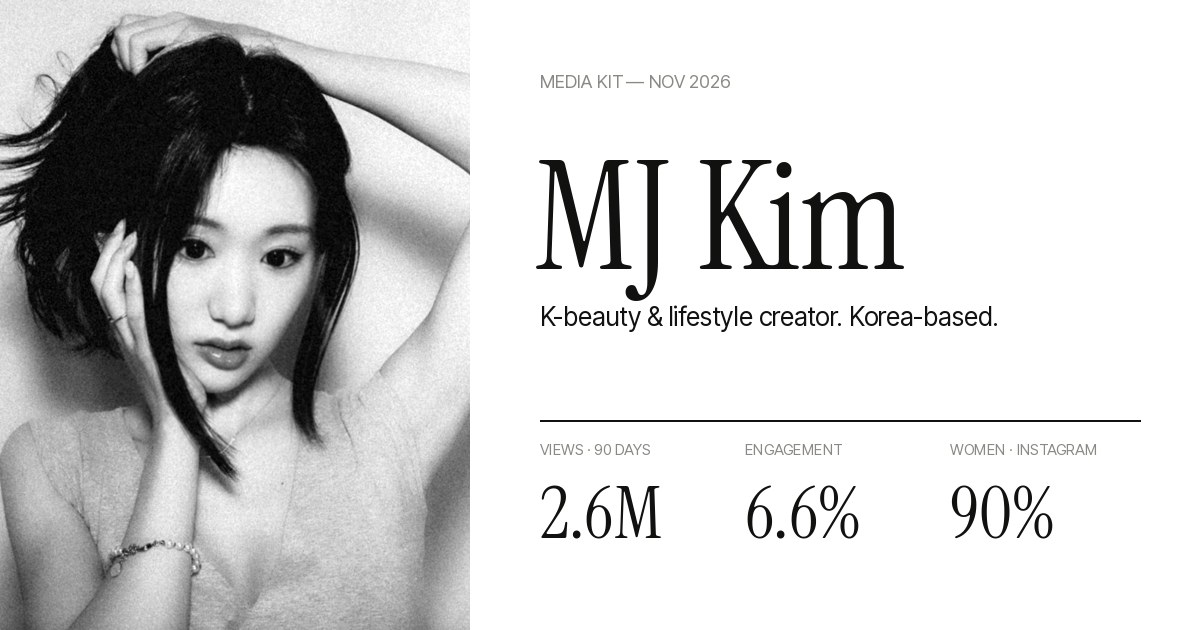
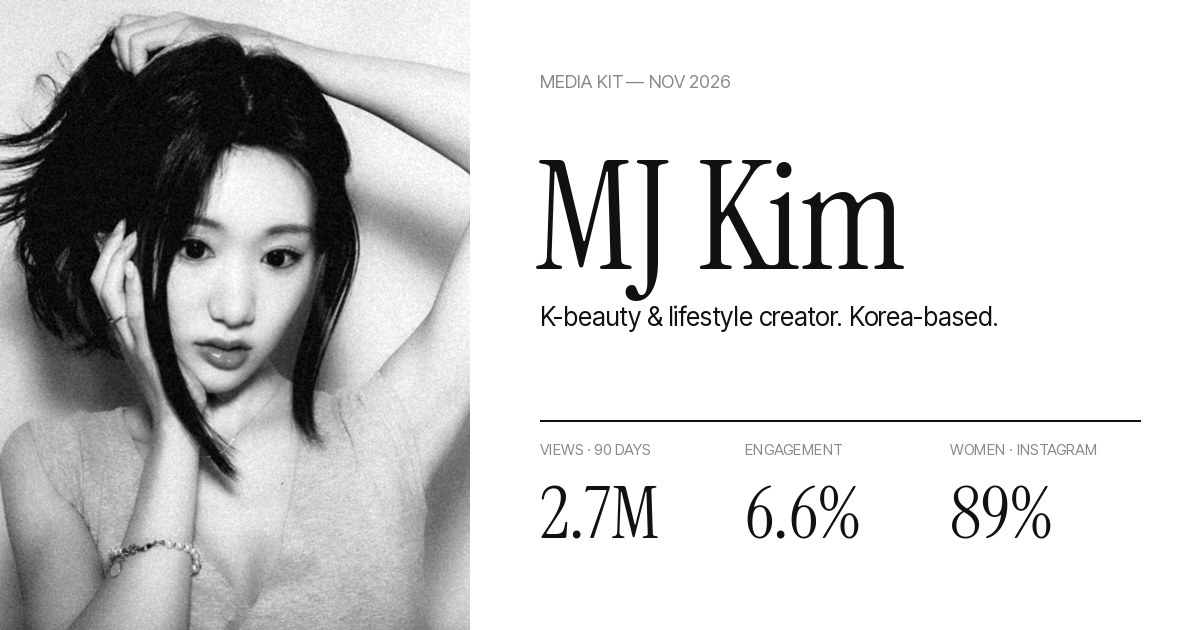
stats 2026-11-25: 55.7K followers, 2.7M views/90d, 6.6% engagement

Changed region(s): [[0.7708, 0.754, 0.8942, 0.8746], [0.4625, 0.754, 0.555, 0.8746]]

diff --git a/index.html b/index.html
@@ -4,7 +4,7 @@
 <meta charset="utf-8">
 <meta name="viewport" content="width=device-width, initial-scale=1, viewport-fit=cover">
 <title>MJ Kim (@likemjkim) · K-beauty Creator in Korea | Media Kit</title>
-<meta name="description" data-k="desc" content="MJ Kim (@likemjkim) is a Korea-based K-beauty &amp; lifestyle creator making English videos on TikTok, YouTube &amp; Instagram. 2.6M TikTok views in 90 days.">
+<meta name="description" data-k="desc" content="MJ Kim (@likemjkim) is a Korea-based K-beauty &amp; lifestyle creator making English videos on TikTok, YouTube &amp; Instagram. 2.7M TikTok views in 90 days.">
 <link rel="canonical" href="https://likemjkim.com/">
 <meta property="og:type" content="website">
 <meta property="og:site_name" content="MJ Kim">
@@ -394,7 +394,7 @@ footer p { margin: 0; font-size: 12px; line-height: 1.6; color: var(--grey); max
       </div>
       <div>
         <div class="strip">
-          <div><span class="lab"><span class="en">Followers</span><span class="ko" lang="ko">팔로워</span></span><span class="num"><span class="en" data-k="followers_total">55.5K</span><span class="ko" data-k="followers_total.ko">5.55만</span></span></div>
+          <div><span class="lab"><span class="en">Followers</span><span class="ko" lang="ko">팔로워</span></span><span class="num"><span class="en" data-k="followers_total">55.7K</span><span class="ko" data-k="followers_total.ko">5.57만</span></span></div>
           <div><span class="lab"><span class="en">Views · 90 days</span><span class="ko" lang="ko">90일 조회수</span></span><span class="num"><span class="en">6.6M</span><span class="ko">660만</span></span></div>
           <div><span class="lab"><span class="en">Engagement</span><span class="ko" lang="ko">참여율</span></span><span class="num">7.8%</span></div>
           <div><span class="lab"><span class="en">Women · IG</span><span class="ko" lang="ko">여성 · 인스타</span></span><span class="num">89%</span></div>
@@ -431,14 +431,14 @@ footer p { margin: 0; font-size: 12px; line-height: 1.6; color: var(--grey); max
       <p><span class="en">TikTok + Instagram views in the last 90 days.</span><span class="ko" lang="ko">최근 90일 틱톡 + 인스타그램 조회수.</span></p>
     </div>
     <div class="figs rv">
-      <div><div class="num"><span class="en" data-k="typical">16.6K</span><span class="ko" data-k="typical.ko">1.66만</span></div><p><span class="en">typical views per video, all platforms</span><span class="ko" lang="ko">영상 1개당 일반 조회수, 전 플랫폼 합산</span></p></div>
+      <div><div class="num"><span class="en" data-k="typical">17.1K</span><span class="ko" data-k="typical.ko">1.71만</span></div><p><span class="en">typical views per video, all platforms</span><span class="ko" lang="ko">영상 1개당 일반 조회수, 전 플랫폼 합산</span></p></div>
       <div><div class="num">7.8%</div><p><span class="en">overall engagement, TikTok + Instagram</span><span class="ko" lang="ko">틱톡 + 인스타그램 전체 참여율</span></p></div>
       <div><div class="num" data-k="over50k">12</div><p><span class="en">videos past 50K views in 90 days</span><span class="ko" lang="ko">90일 동안 5만 뷰를 넘긴 영상</span></p></div>
     </div>
     <div class="pairs rv">
-      <div><span class="lab">YouTube</span><span class="num"><span class="en" data-k="yt_subs">32K</span><span class="ko" data-k="yt_subs.ko">3.2만</span></span></div>
+      <div><span class="lab">YouTube</span><span class="num"><span class="en" data-k="yt_subs">32.1K</span><span class="ko" data-k="yt_subs.ko">3.21만</span></span></div>
       <div><span class="lab">TikTok</span><span class="num"><span class="en" data-k="tt_followers">17.3K</span><span class="ko" data-k="tt_followers.ko">1.73만</span></span></div>
-      <div><span class="lab">Instagram</span><span class="num"><span class="en" data-k="ig_followers">6.2K</span><span class="ko" data-k="ig_followers.ko">6,200</span></span></div>
+      <div><span class="lab">Instagram</span><span class="num"><span class="en" data-k="ig_followers">6.3K</span><span class="ko" data-k="ig_followers.ko">6,300</span></span></div>
       <div><span class="lab"><span class="en">Women · Instagram</span><span class="ko" lang="ko">여성 · 인스타그램</span></span><span class="num">89%</span></div>
       <div><span class="lab"><span class="en">Women · YouTube</span><span class="ko" lang="ko">여성 · 유튜브</span></span><span class="num">77.3%</span></div>
       <div><span class="lab"><span class="en">18–34 · TikTok</span><span class="ko" lang="ko">18–34세 · 틱톡</span></span><span class="num">77.2%</span></div>
@@ -453,7 +453,7 @@ footer p { margin: 0; font-size: 12px; line-height: 1.6; color: var(--grey); max
     <div class="brand-row">
       <a class="reel-tile rv" href="https://www.tiktok.com/@likemjkim/video/7697993481683258655" target="_blank" rel="noopener"><div class="frame"><img src="reels/b-epii-barrier.jpg" alt="epii skin-barrier TikTok" width="432" height="768" loading="lazy"><video muted playsinline loop preload="none" data-src="reels/b-epii-barrier.mp4" aria-hidden="true"></video></div><div class="cap"><span class="lab">epii</span><span class="num"><span class="en" data-k="tt:7697993481683258655:views">243K views</span><span class="ko" data-k="tt:7697993481683258655:views.ko">조회수 24.3만</span></span></div></a>
       <a class="reel-tile rv" href="https://www.tiktok.com/@likemjkim/video/7690425915339230495" target="_blank" rel="noopener"><div class="frame"><img src="reels/b-linave.jpg" alt="LIN AVENUE baseball cap TikTok" width="432" height="768" loading="lazy"><video muted playsinline loop preload="none" data-src="reels/b-linave.mp4" aria-hidden="true"></video></div><div class="cap"><span class="lab">LIN AVENUE</span><span class="num"><span class="en" data-k="tt:7690425915339230495:saves">1.3K saves</span><span class="ko" data-k="tt:7690425915339230495:saves.ko">저장 1,300회</span></span></div></a>
-      <a class="reel-tile rv" href="https://www.tiktok.com/@likemjkim/video/7700989188619095326" target="_blank" rel="noopener"><div class="frame"><img src="reels/b-epii-hpt6.jpg" alt="epii anti-aging TikTok" width="432" height="768" loading="lazy"><video muted playsinline loop preload="none" data-src="reels/b-epii-hpt6.mp4" aria-hidden="true"></video></div><div class="cap"><span class="lab">epii</span><span class="num"><span class="en" data-k="tt:7700989188619095326:views">75.2K views</span><span class="ko" data-k="tt:7700989188619095326:views.ko">조회수 7.52만</span></span></div></a>
+      <a class="reel-tile rv" href="https://www.tiktok.com/@likemjkim/video/7700989188619095326" target="_blank" rel="noopener"><div class="frame"><img src="reels/b-epii-hpt6.jpg" alt="epii anti-aging TikTok" width="432" height="768" loading="lazy"><video muted playsinline loop preload="none" data-src="reels/b-epii-hpt6.mp4" aria-hidden="true"></video></div><div class="cap"><span class="lab">epii</span><span class="num"><span class="en" data-k="tt:7700989188619095326:views">75.3K views</span><span class="ko" data-k="tt:7700989188619095326:views.ko">조회수 7.53만</span></span></div></a>
       <a class="reel-tile rv" href="https://www.tiktok.com/@likemjkim/video/7694258473701313822" target="_blank" rel="noopener"><div class="frame"><img src="reels/b-dasique.jpg" alt="dasique blush TikTok" width="432" height="768" loading="lazy"><video muted playsinline loop preload="none" data-src="reels/b-dasique.mp4" aria-hidden="true"></video></div><div class="cap"><span class="lab">dasique</span><span class="num"><span class="en">Blush</span><span class="ko">블러셔</span></span></div></a>
       <a class="reel-tile rv" href="https://www.tiktok.com/@likemjkim/video/7687236497573055775" target="_blank" rel="noopener"><div class="frame"><img src="reels/b-anaze.jpg" alt="ANAZE hair TikTok" width="432" height="768" loading="lazy"><video muted playsinline loop preload="none" data-src="reels/b-anaze.mp4" aria-hidden="true"></video></div><div class="cap"><span class="lab">ANAZE</span><span class="num"><span class="en">Hair care</span><span class="ko">헤어 케어</span></span></div></a>
       <a class="reel-tile rv" href="https://www.instagram.com/reel/Df4r59CJyJf/" target="_blank" rel="noopener"><div class="frame"><img src="reels/o-unni.jpg" alt="UNNI Seoul beauty under $100 Reel" width="432" height="768" loading="lazy"><video muted playsinline loop preload="none" data-src="reels/o-unni.mp4" aria-hidden="true"></video></div><div class="cap"><span class="lab">UNNI</span><span class="num"><span class="en">49.5K views</span><span class="ko">조회수 4.95만</span></span></div></a>
@@ -465,18 +465,18 @@ footer p { margin: 0; font-size: 12px; line-height: 1.6; color: var(--grey); max
   <section class="sec wrap rail-sec" id="organic">
     <div class="rail-pin">
       <div class="rail-head">
-        <h2><span class="en">Organic Content <span class="g">(typical <span data-k="typical">16.6K</span> views)</span></span><span class="ko" lang="ko">오가닉 콘텐츠 <span class="g">(보통 <span data-k="typical.ko">1.66만</span> 조회)</span></span></h2>
+        <h2><span class="en">Organic Content <span class="g">(typical <span data-k="typical">17.1K</span> views)</span></span><span class="ko" lang="ko">오가닉 콘텐츠 <span class="g">(보통 <span data-k="typical.ko">1.71만</span> 조회)</span></span></h2>
       </div>
       <div class="rail-wrap">
         <div class="rail">
           <a class="reel-tile" href="https://www.instagram.com/reel/DdWrM6AJA7b/" target="_blank" rel="noopener"><div class="frame"><img src="reels/o-pov.jpg" alt="POV girl shopping Reel" width="432" height="768" loading="lazy"><video muted playsinline loop preload="none" data-src="reels/o-pov.mp4" aria-hidden="true"></video></div><div class="cap"><span class="lab">Instagram</span><span class="num"><span class="en" data-k="ig:DdWrM6AJA7b:views">1.5M views</span><span class="ko" data-k="ig:DdWrM6AJA7b:views.ko">조회수 150만</span></span></div></a>
-          <a class="reel-tile" href="https://www.tiktok.com/@likemjkim/video/7699474972376435999" target="_blank" rel="noopener"><div class="frame"><img src="reels/o-cafe.jpg" alt="Seoul café TikTok" width="432" height="768" loading="lazy"><video muted playsinline loop preload="none" data-src="reels/o-cafe.mp4" aria-hidden="true"></video></div><div class="cap"><span class="lab">TikTok</span><span class="num"><span class="en" data-k="tt:7699474972376435999:views">584K views</span><span class="ko" data-k="tt:7699474972376435999:views.ko">조회수 58.4만</span></span></div></a>
+          <a class="reel-tile" href="https://www.tiktok.com/@likemjkim/video/7699474972376435999" target="_blank" rel="noopener"><div class="frame"><img src="reels/o-cafe.jpg" alt="Seoul café TikTok" width="432" height="768" loading="lazy"><video muted playsinline loop preload="none" data-src="reels/o-cafe.mp4" aria-hidden="true"></video></div><div class="cap"><span class="lab">TikTok</span><span class="num"><span class="en" data-k="tt:7699474972376435999:views">588K views</span><span class="ko" data-k="tt:7699474972376435999:views.ko">조회수 58.8만</span></span></div></a>
           <a class="reel-tile" href="https://www.tiktok.com/@likemjkim/video/7680553747189091614" target="_blank" rel="noopener"><div class="frame"><img src="reels/o-foundation.jpg" alt="Olive Young foundation TikTok" width="432" height="768" loading="lazy"><video muted playsinline loop preload="none" data-src="reels/o-foundation.mp4" aria-hidden="true"></video></div><div class="cap"><span class="lab">TikTok</span><span class="num"><span class="en" data-k="tt:7680553747189091614:saves">8.3K saves</span><span class="ko" data-k="tt:7680553747189091614:saves.ko">저장 8,300회</span></span></div></a>
           <a class="reel-tile" href="https://www.tiktok.com/@likemjkim/video/7680177353418427679" target="_blank" rel="noopener"><div class="frame"><img src="reels/o-dance.jpg" alt="Dance trend TikTok" width="432" height="768" loading="lazy"><video muted playsinline loop preload="none" data-src="reels/o-dance.mp4" aria-hidden="true"></video></div><div class="cap"><span class="lab">TikTok</span><span class="num"><span class="en" data-k="tt:7680177353418427679:views">251K views</span><span class="ko" data-k="tt:7680177353418427679:views.ko">조회수 25.1만</span></span></div></a>
           <a class="reel-tile" href="https://www.instagram.com/reel/DcT0TVyylpx/" target="_blank" rel="noopener"><div class="frame"><img src="reels/o-gm.jpg" alt="Gentle Monster Reel" width="432" height="768" loading="lazy"><video muted playsinline loop preload="none" data-src="reels/o-gm.mp4" aria-hidden="true"></video></div><div class="cap"><span class="lab">Instagram</span><span class="num"><span class="en" data-k="ig:DcT0TVyylpx:views">259K views</span><span class="ko" data-k="ig:DcT0TVyylpx:views.ko">조회수 25.9만</span></span></div></a>
-          <a class="reel-tile" href="https://www.tiktok.com/@likemjkim/video/7679222940566703374" target="_blank" rel="noopener"><div class="frame"><img src="reels/o-kdrama.jpg" alt="K-drama makeup TikTok" width="432" height="768" loading="lazy"><video muted playsinline loop preload="none" data-src="reels/o-kdrama.mp4" aria-hidden="true"></video></div><div class="cap"><span class="lab">TikTok</span><span class="num"><span class="en" data-k="tt:7679222940566703374:views">218K views</span><span class="ko" data-k="tt:7679222940566703374:views.ko">조회수 21.8만</span></span></div></a>
+          <a class="reel-tile" href="https://www.tiktok.com/@likemjkim/video/7679222940566703374" target="_blank" rel="noopener"><div class="frame"><img src="reels/o-kdrama.jpg" alt="K-drama makeup TikTok" width="432" height="768" loading="lazy"><video muted playsinline loop preload="none" data-src="reels/o-kdrama.mp4" aria-hidden="true"></video></div><div class="cap"><span class="lab">TikTok</span><span class="num"><span class="en" data-k="tt:7679222940566703374:views">219K views</span><span class="ko" data-k="tt:7679222940566703374:views.ko">조회수 21.9만</span></span></div></a>
           <a class="reel-tile" href="https://www.tiktok.com/@likemjkim/video/7680069002927901966" target="_blank" rel="noopener"><div class="frame"><img src="reels/o-lashes.jpg" alt="Lash clusters TikTok" width="432" height="768" loading="lazy"><video muted playsinline loop preload="none" data-src="reels/o-lashes.mp4" aria-hidden="true"></video></div><div class="cap"><span class="lab">TikTok</span><span class="num"><span class="en" data-k="tt:7680069002927901966:views">64.3K views</span><span class="ko" data-k="tt:7680069002927901966:views.ko">조회수 6.43만</span></span></div></a>
-          <a class="reel-tile" href="https://www.tiktok.com/@likemjkim/video/7686068822884797727" target="_blank" rel="noopener"><div class="frame"><img src="reels/o-blush.jpg" alt="Olive Young blush TikTok" width="432" height="768" loading="lazy"><video muted playsinline loop preload="none" data-src="reels/o-blush.mp4" aria-hidden="true"></video></div><div class="cap"><span class="lab">TikTok</span><span class="num"><span class="en" data-k="tt:7686068822884797727:views">87.9K views</span><span class="ko" data-k="tt:7686068822884797727:views.ko">조회수 8.79만</span></span></div></a>
+          <a class="reel-tile" href="https://www.tiktok.com/@likemjkim/video/7686068822884797727" target="_blank" rel="noopener"><div class="frame"><img src="reels/o-blush.jpg" alt="Olive Young blush TikTok" width="432" height="768" loading="lazy"><video muted playsinline loop preload="none" data-src="reels/o-blush.mp4" aria-hidden="true"></video></div><div class="cap"><span class="lab">TikTok</span><span class="num"><span class="en" data-k="tt:7686068822884797727:views">88.3K views</span><span class="ko" data-k="tt:7686068822884797727:views.ko">조회수 8.83만</span></span></div></a>
         </div>
       </div>
       <div class="progress" aria-hidden="true"><i></i></div>
@@ -545,8 +545,8 @@ footer p { margin: 0; font-size: 12px; line-height: 1.6; color: var(--grey); max
 
   <footer class="wrap">
     <p>
-      <span class="en">Public counts, <span data-k="asof">Nov 24 2026</span>. 90 days = <span data-k="win">Aug 27 – Nov 24</span>, <span data-k="tt_n">69</span> TikToks. Overall views and engagement = 154 TikToks and Instagram Reels posted Aug 26 – Nov 24 2026, from TikTok Studio and Instagram insights; boosted Reels and YouTube not included. Engagement = total likes, comments, shares, saves and Instagram reposts ÷ total views. Typical views = median per platform, summed. Brand videos = TikToks tagging a partner, <span data-k="brand_win">same 90 days</span>: saves per view, median <span data-k="paid_sr">1.3%</span> vs <span data-k="org_sr">1%</span> organic. Audience from Instagram, TikTok and YouTube analytics, Oct 2026.</span>
-      <span class="ko" lang="ko"><span data-k="asof.ko">2026년 11월 24일</span> 공개 수치 기준. 90일 = <span data-k="win.ko">8월 27일–11월 24일</span>, 틱톡 <span data-k="tt_n">69</span>개. 전체 조회수와 참여율 = 2026년 8월 26일–11월 24일에 올린 틱톡과 인스타그램 릴스 154개, 틱톡 스튜디오·인스타그램 인사이트 기준, 광고 집행 릴스와 유튜브 제외. 참여율 = 좋아요, 댓글, 공유, 저장, 인스타그램 리포스트 합계 ÷ 전체 조회수. 일반 조회수 = 플랫폼별 중앙값의 합. 브랜드 영상 = 파트너를 태그한 틱톡, <span data-k="brand_win.ko">같은 90일</span>: 조회수 대비 저장 중앙값 <span data-k="paid_sr">1.3%</span> 대 일반 <span data-k="org_sr">1%</span>. 시청자 데이터는 2026년 10월 인스타그램·틱톡·유튜브 분석 기준.</span>
+      <span class="en">Public counts, <span data-k="asof">Nov 25 2026</span>. 90 days = <span data-k="win">Aug 28 – Nov 25</span>, <span data-k="tt_n">69</span> TikToks. Overall views and engagement = 154 TikToks and Instagram Reels posted Aug 26 – Nov 24 2026, from TikTok Studio and Instagram insights; boosted Reels and YouTube not included. Engagement = total likes, comments, shares, saves and Instagram reposts ÷ total views. Typical views = median per platform, summed. Brand videos = TikToks tagging a partner, <span data-k="brand_win">same 90 days</span>: saves per view, median <span data-k="paid_sr">1.3%</span> vs <span data-k="org_sr">1%</span> organic. Audience from Instagram, TikTok and YouTube analytics, Oct 2026.</span>
+      <span class="ko" lang="ko"><span data-k="asof.ko">2026년 11월 25일</span> 공개 수치 기준. 90일 = <span data-k="win.ko">8월 28일–11월 25일</span>, 틱톡 <span data-k="tt_n">69</span>개. 전체 조회수와 참여율 = 2026년 8월 26일–11월 24일에 올린 틱톡과 인스타그램 릴스 154개, 틱톡 스튜디오·인스타그램 인사이트 기준, 광고 집행 릴스와 유튜브 제외. 참여율 = 좋아요, 댓글, 공유, 저장, 인스타그램 리포스트 합계 ÷ 전체 조회수. 일반 조회수 = 플랫폼별 중앙값의 합. 브랜드 영상 = 파트너를 태그한 틱톡, <span data-k="brand_win.ko">같은 90일</span>: 조회수 대비 저장 중앙값 <span data-k="paid_sr">1.3%</span> 대 일반 <span data-k="org_sr">1%</span>. 시청자 데이터는 2026년 10월 인스타그램·틱톡·유튜브 분석 기준.</span>
     </p>
     <p>© 2026 MJ Kim · @likemjkim</p>
   </footer>
